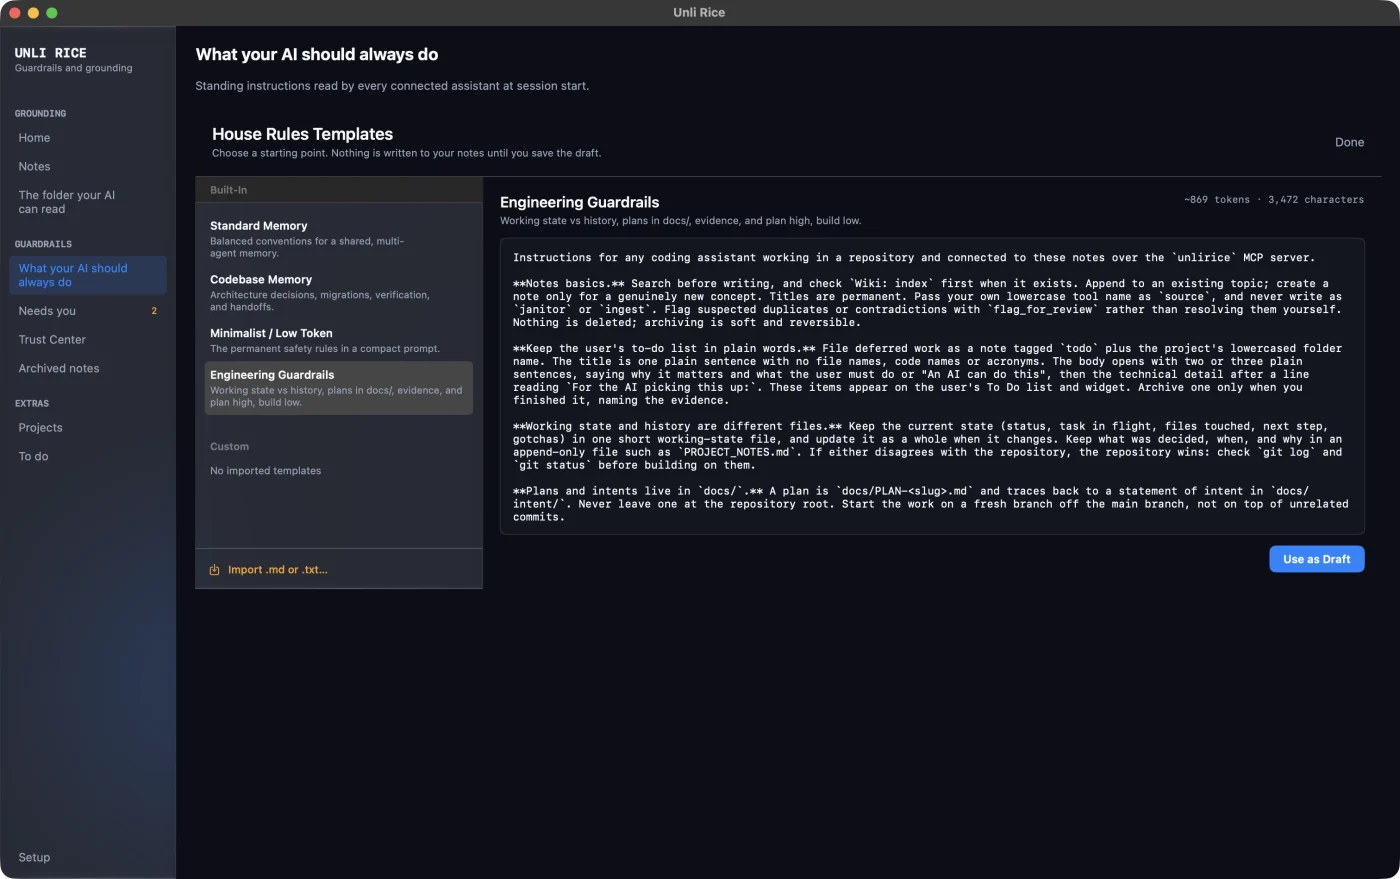
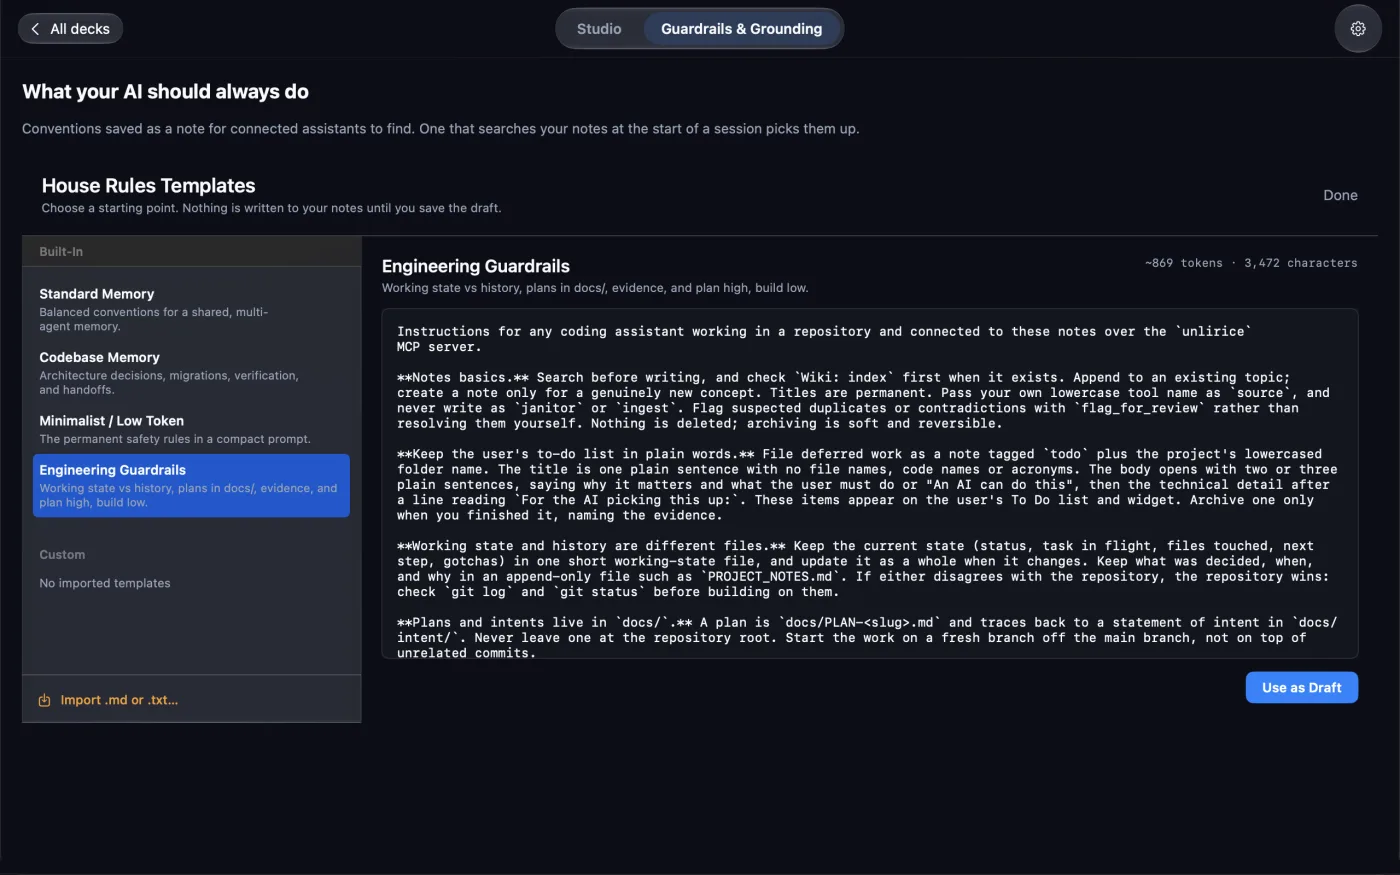
unlirice: 1.5 images — Studio hero, new gallery, Studio figure in the guide
Hero is the 1.5 Studio shot (2560x1600). Gallery is now Guardrails &
Grounding, House Rules, Connect, Notes (To do dropped; its image removed).
Guide §7 gains a Studio figure. All shots come from a demo vault, 1400x875.

diff --git a/unlirice/user_guide.html b/unlirice/user_guide.html
@@ -80,7 +80,7 @@
 <p>Open Unli Rice for the first time and it asks you one question: which tool do you use? Claude, ChatGPT, Cursor, or something else. Answer it and you get what that tool actually needs &mdash; for most, a settings block already filled in; for ChatGPT in a browser, a folder instead, because a web page cannot read files on your Mac. You do not have to go looking for a settings screen, and you can reach the same thing later if you add another tool: <strong>Setup &rarr; AI Tools</strong> (Setup is in the gear menu at the top right), which is the Connect screen referred to throughout this guide. It lists every tool with its config file, a <strong>Copy Configuration</strong> button, and when that tool last checked in.</p>
 <p>Then the app waits, and tells you when your tool has actually connected. You do not have to guess whether it worked.</p>
 <figure>
-<img src="../apps/assets/unli-rice-shot-connect.webp" alt="The Connect screen: the Unli Rice folder path, then a row per tool — Claude Code, Claude Desktop, Cursor, Antigravity, Codex / ChatGPT — each with its config file and a Copy Configuration button" width="1400" height="879" loading="lazy" decoding="async">
+<img src="../apps/assets/unli-rice-shot-connect.webp" alt="The Connect screen: the Unli Rice folder path, then a row per tool — Claude Code, Claude Desktop, Cursor, Antigravity, Codex / ChatGPT — each with its config file and a Copy Configuration button" width="1400" height="875" loading="lazy" decoding="async">
 <figcaption><strong>Setup &rarr; AI Tools.</strong> One row per tool, each showing the file its block goes in, a <strong>Copy Configuration</strong> button, and when that tool last checked in. The path at the top is the folder route, and it is the real path &mdash; not <code>~/Documents</code>.</figcaption>
 </figure>
 <h3>Where the block goes</h3>
@@ -204,6 +204,10 @@
 <p>Since 1.5 the window has two tabs at the top, <strong>Studio</strong> (&#8984;1) and <strong>Guardrails &amp; Grounding</strong> (&#8984;2), and a gear button at the top right. Once you are set up the app opens on Studio. The very first time, it opens on the connect screen instead; <strong>Use Unli Rice without connecting</strong> skips it. Names below are the ones on the buttons.</p>
 <h3>Studio</h3>
 <p>Your projects at a glance. A project is any folder, one level inside the folders you chose, that holds a <code>.git</code> folder, a <code>memory.md</code> or a <code>PROJECT_NOTES.md</code>. With none chosen yet, Studio offers <strong>Pick a folder</strong>.</p>
+<figure>
+<img src="../apps/assets/unli-rice-shot-studio.webp" alt="The Studio tab: a stack of project cards with the front project's icon and sticker, its seven lights and Next step, and its Branches and Notes decks" width="1400" height="875" loading="lazy" decoding="async">
+<figcaption><strong>Studio.</strong> The Projects deck with the front project&rsquo;s card, its seven lights and <strong>Next:</strong> step, and the <strong>Branches</strong> and <strong>Notes</strong> decks that follow it.</figcaption>
+</figure>
 <p><strong>Projects.</strong> A stack of cards, one per project, newest activity first. Flip through it with the &lsaquo; &rsaquo; buttons, the arrow keys, a two-finger swipe, a drag, or a click on a card behind. If the project has an app icon or logo, it sits in the middle of its card. The sticker says <strong>FINE</strong>, <strong>NEEDS YOU</strong> (it has to-dos or flags waiting), <strong>NO NOTES YET</strong>, or <strong>CAN&rsquo;T READ</strong> when Unli Rice cannot open the folder; hover over the sticker to see why.</p>
 <p><strong>The seven lights.</strong> Idea, Intent, Spec, Agents, Pre-mortem, Build and Post-mortem, for the front project&rsquo;s open plan. They are read from the files in its <code>docs/</code> folder: whether the intent and spec say they are approved, whether <code>AGENTS.md</code> is there, and whether the review in <code>docs/dialogue/</code> has been answered and settled. A file that exists but is not approved yet shows as a draft, not done. <strong>Next:</strong> names the next step.</p>
 <p><strong>Branches and Notes.</strong> They follow the front project: its git branches, and the notes that belong to it (a note tagged with the project&rsquo;s folder name counts). Switch to <strong>All projects</strong> at the top right to see the branches of every project and all your notes; clicking a repo there brings that project to the front. The branch view shows which branch tips are not on any remote this clone has fetched. That is worth reading precisely, because it is a narrower claim than it sounds: it compares the tip of each branch against the remote refs already fetched here. It does not walk individual commits, and it cannot speak for a remote it has never fetched from. Read it as &ldquo;nothing I know about has this&rdquo;, which is still the useful warning.</p>

diff --git a/unlirice/index.html b/unlirice/index.html
@@ -69,13 +69,13 @@
     </div>
     <div class="case-media">
       <div class="shot">
-        <img src="../apps/assets/unli-rice-hero.png" alt="Unli Rice on macOS — Studio, with a stack of project cards, seven lights showing how far the front project has come, and its branches and notes." width="3024" height="1898" fetchpriority="high">
+        <img src="../apps/assets/unli-rice-hero.png" alt="Unli Rice on macOS — Studio, with a stack of project cards, seven lights showing how far the front project has come, and its branches and notes." width="2560" height="1600" fetchpriority="high">
       </div>
       <div class="grid2">
-        <figure><div class="shot"><img src="../apps/assets/unli-rice-shot-house-rules.webp" alt="Unli Rice What your AI should always do — House Rules templates, with the Engineering Guardrails preset open" width="1400" height="879" loading="lazy"></div><figcaption><span>House Rules &mdash; what every assistant reads first</span></figcaption></figure>
-        <figure><div class="shot"><img src="../apps/assets/unli-rice-shot-connect.webp" alt="Unli Rice Setup › AI Tools — connecting Claude Code, Claude Desktop, Cursor, Antigravity and Codex over MCP, with Claude Code connected" width="1400" height="879" loading="lazy"></div><figcaption><span>Connect &mdash; one config block per tool</span></figcaption></figure>
-        <figure><div class="shot"><img src="../apps/assets/unli-rice-shot-notes.webp" alt="Unli Rice Notes — searchable list of every note, with source tags and timestamps" width="1400" height="879" loading="lazy"></div><figcaption><span>Notes &mdash; searchable, tagged, append-only</span></figcaption></figure>
-        <figure><div class="shot"><img src="../apps/assets/unli-rice-shot-todo.webp" alt="Unli Rice To do — to-dos your AI assistants suggested, each with who suggested it and when, plus items derived from your repos" width="1400" height="879" loading="lazy"></div><figcaption><span>To do &mdash; derived, not maintained by hand</span></figcaption></figure>
+        <figure><div class="shot"><img src="../apps/assets/unli-rice-shot-guardrails-grounding.webp" alt="Unli Rice Guardrails &amp; Grounding tab — what your AI knows (notes and the folder it can read) beside the rules it follows (House Rules)" width="1400" height="875" loading="lazy"></div><figcaption><span>Guardrails &amp; Grounding &mdash; what your AI knows and must do</span></figcaption></figure>
+        <figure><div class="shot"><img src="../apps/assets/unli-rice-shot-house-rules.webp" alt="Unli Rice What your AI should always do — House Rules templates, with the Engineering Guardrails preset open" width="1400" height="875" loading="lazy"></div><figcaption><span>House Rules &mdash; what every assistant reads first</span></figcaption></figure>
+        <figure><div class="shot"><img src="../apps/assets/unli-rice-shot-connect.webp" alt="Unli Rice Setup › AI Tools — connecting Claude Code, Claude Desktop, Cursor, Antigravity and Codex over MCP, with Claude Code connected" width="1400" height="875" loading="lazy"></div><figcaption><span>Connect &mdash; one config block per tool</span></figcaption></figure>
+        <figure><div class="shot"><img src="../apps/assets/unli-rice-shot-notes.webp" alt="Unli Rice Notes — searchable list of every note, with who wrote it and when" width="1400" height="875" loading="lazy"></div><figcaption><span>Notes &mdash; searchable, tagged, append-only</span></figcaption></figure>
       </div>
     </div>
   </article>
